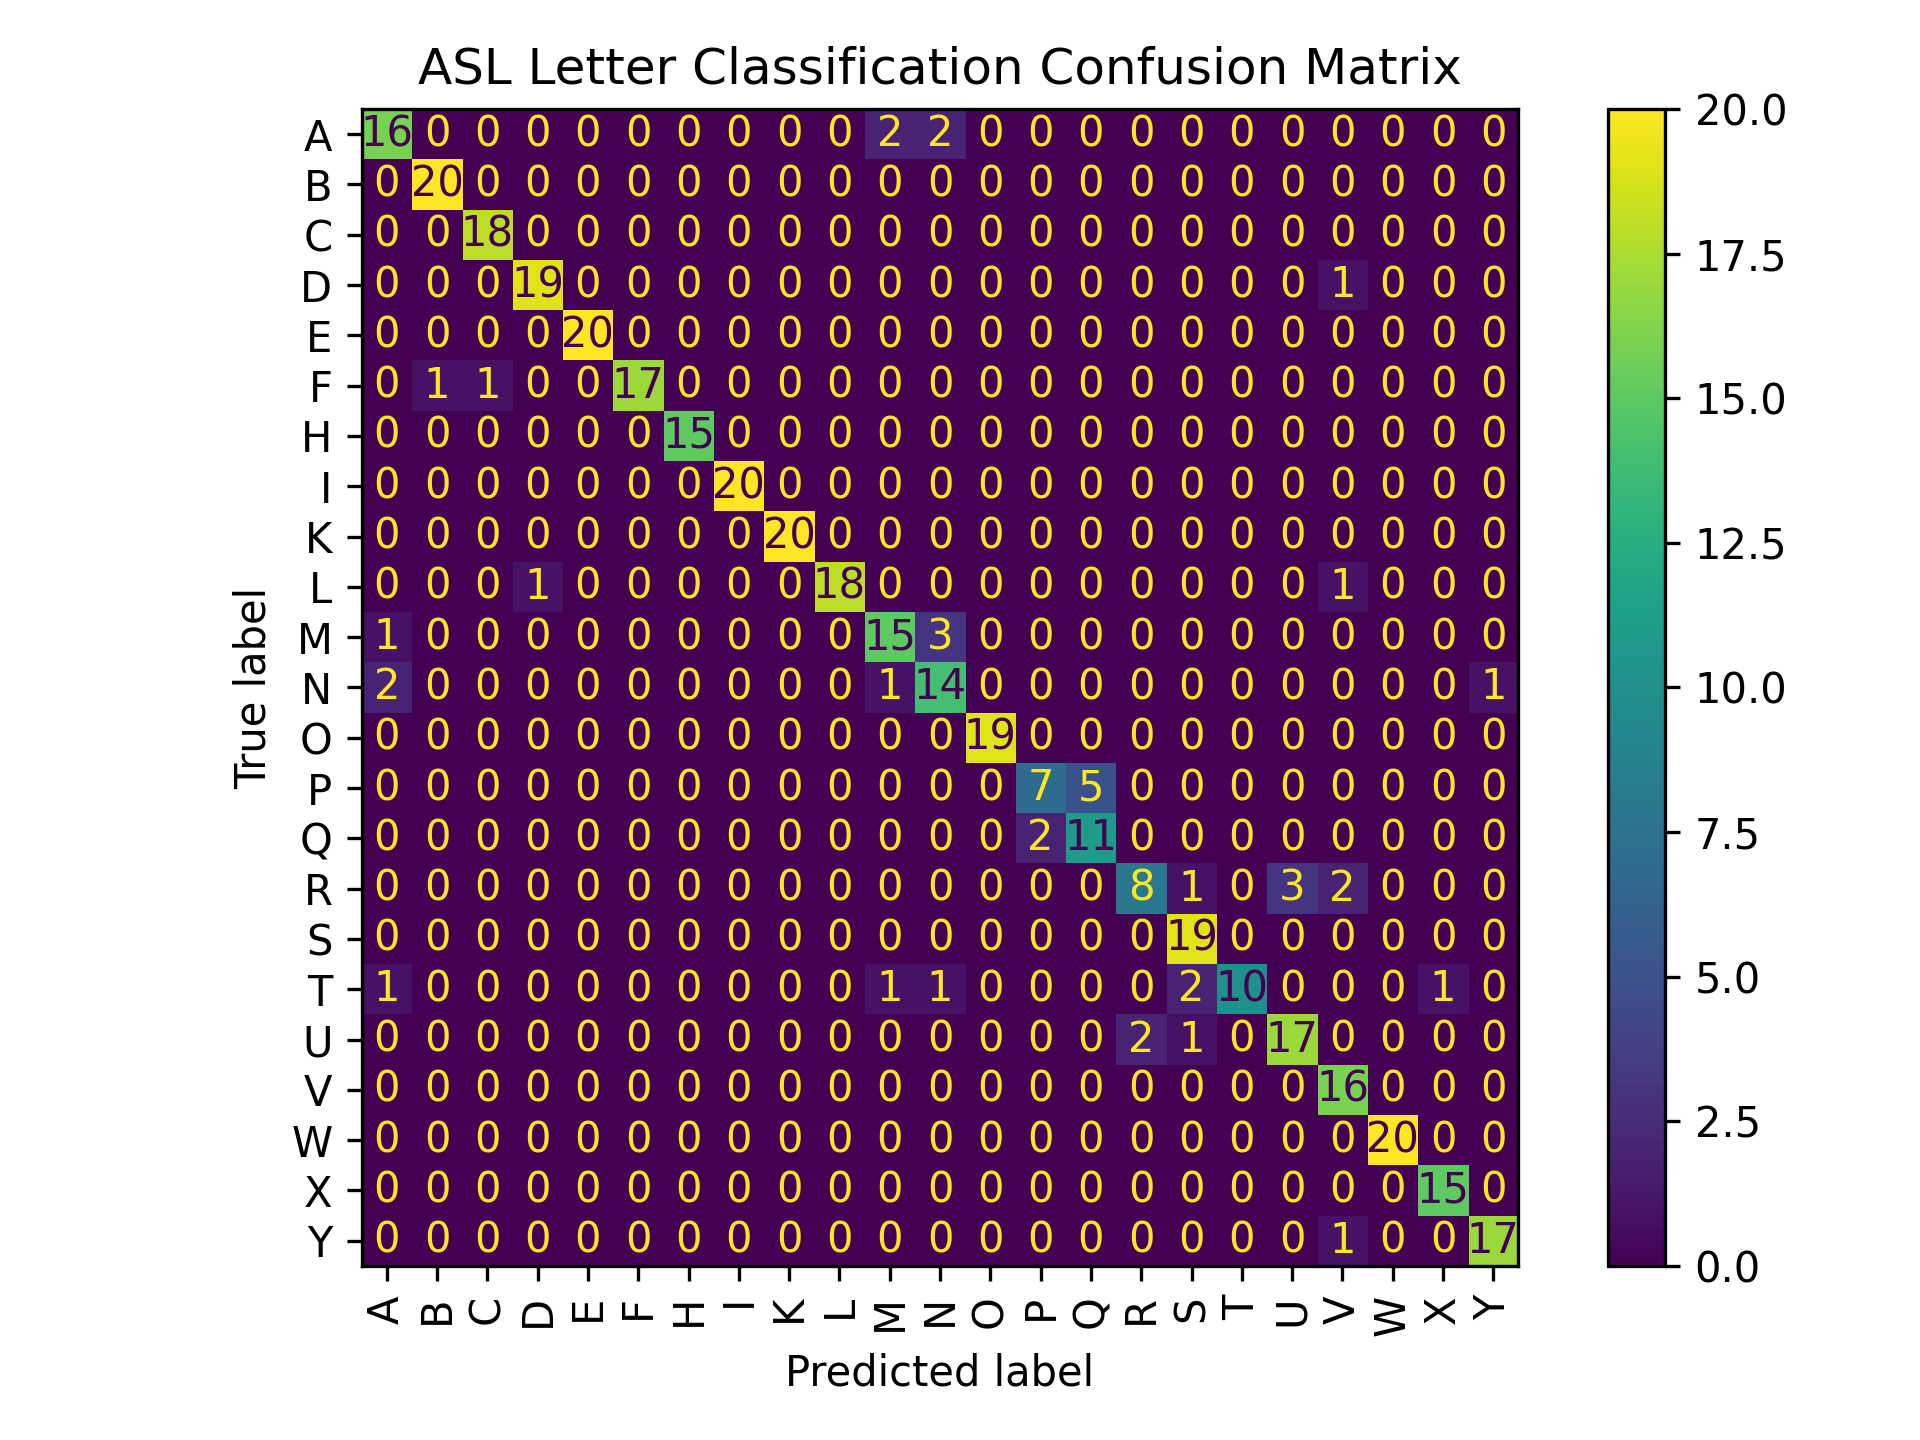
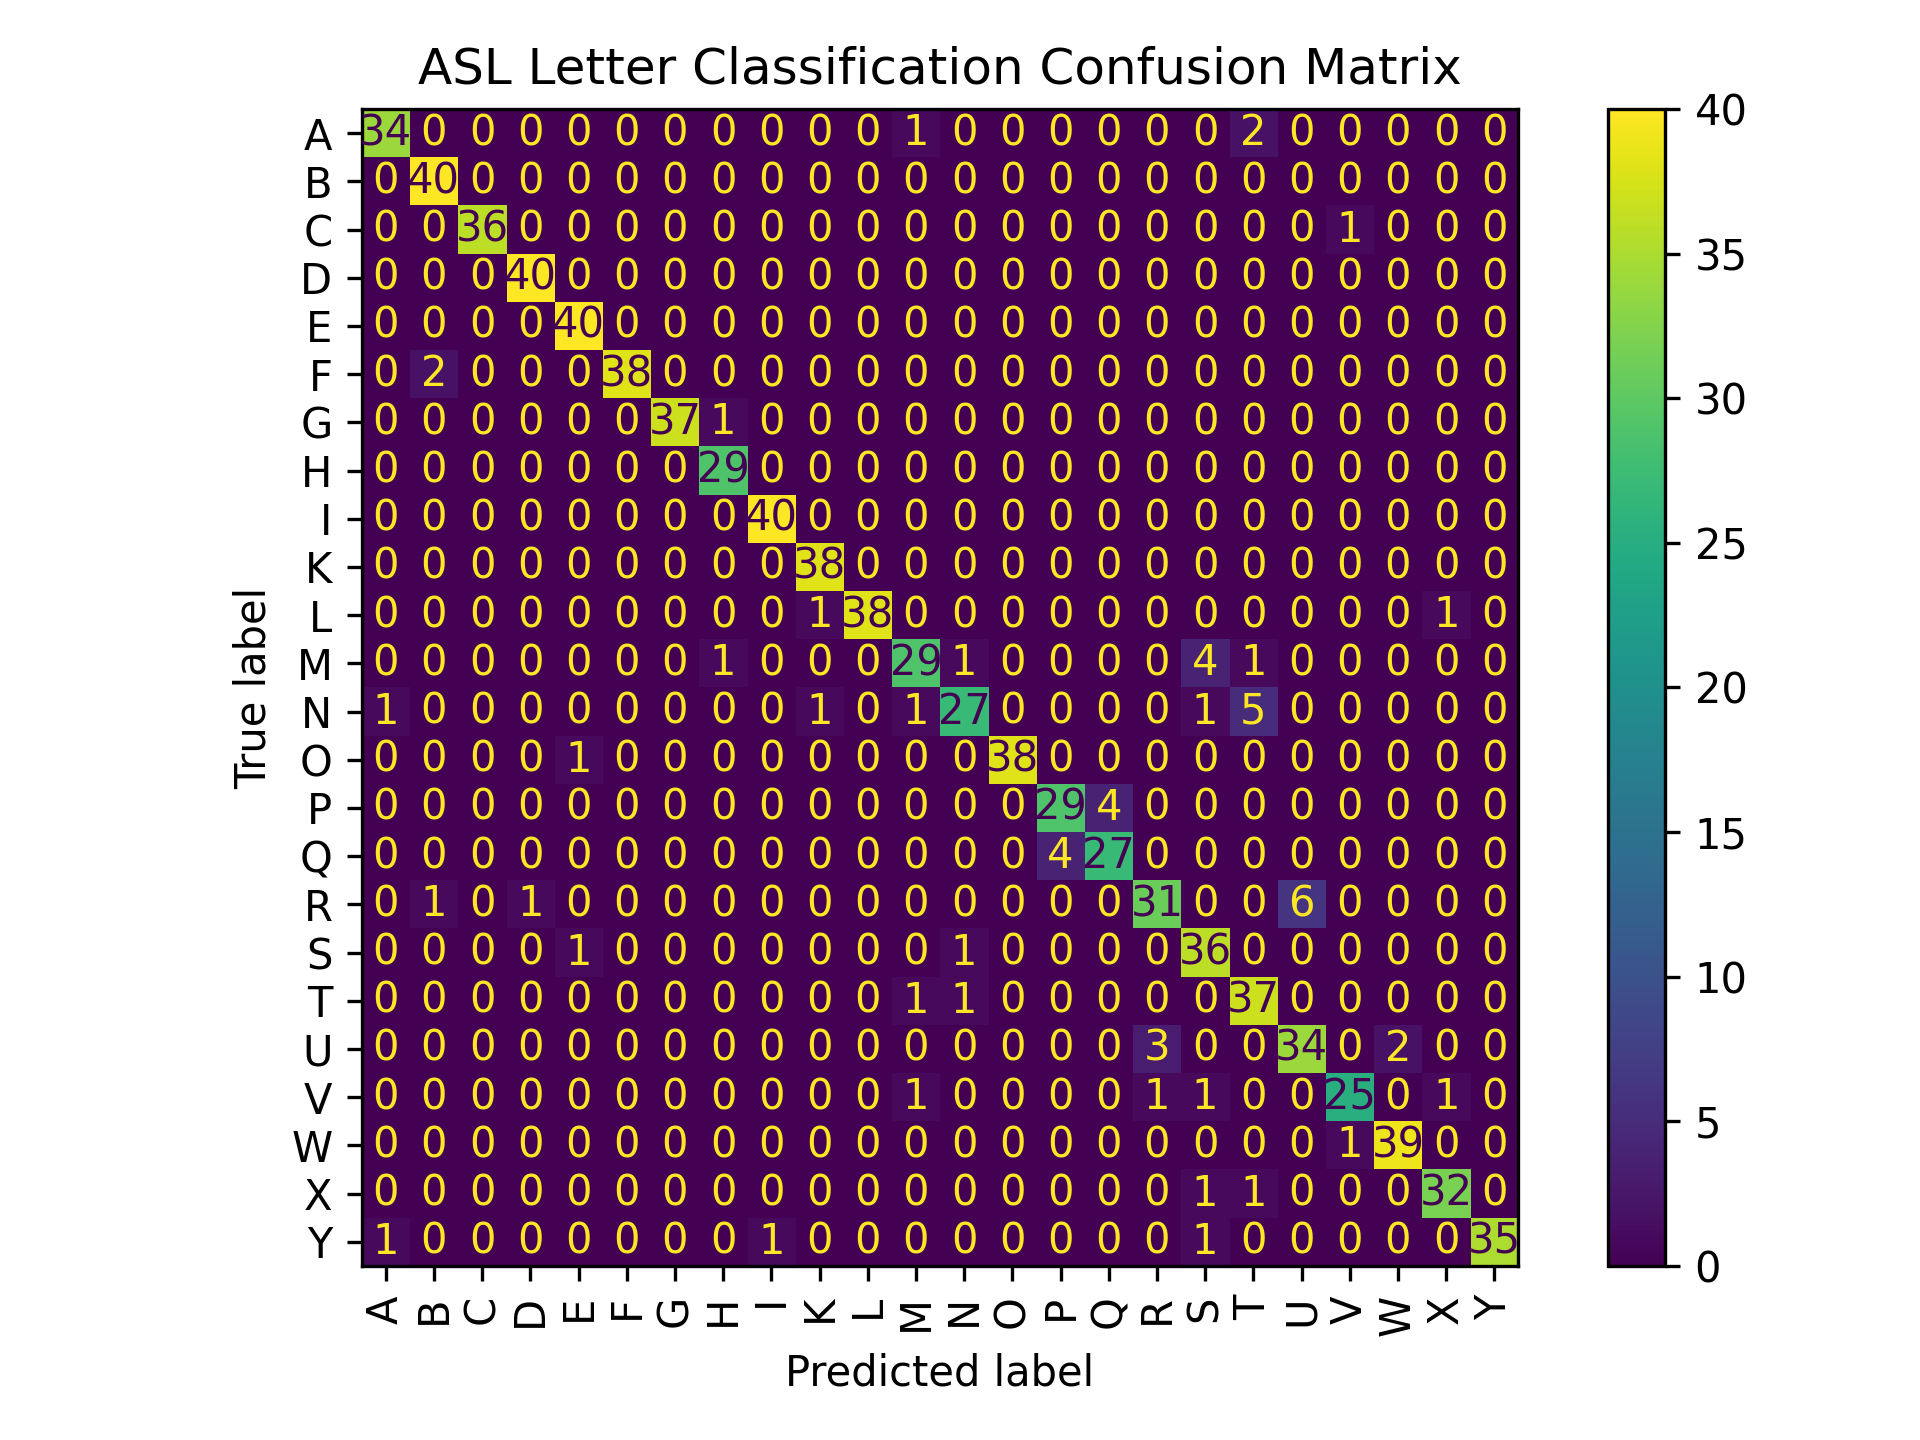
Implements predict_live, addss thumb dist ft and more robust scaling

diff --git a/process_data.py b/process_data.py
@@ -1,8 +1,25 @@
 import os
 import pickle
 import cv2
-import mediapipe as mp
 import hand_utils as h
+import numpy as np
+import random
+
+def augment_image(img):
+    h, w = img.shape[:2] #img.shape returnd (heights, width, channels)
+
+    # Random rotation (±5°)
+    angle = random.uniform(-5, 5)
+    #Generates a 2D affine rotation matrix used by OpenCV to rotate the image. The middle of the image (w / 2, h / 2) is the rotation center. 1, is the scale-factor, none.
+    M_rot = cv2.getRotationMatrix2D((w / 2, h / 2), angle, 1) 
+    img = cv2.warpAffine(img, M_rot, (w, h), borderMode=cv2.BORDER_REFLECT)
+
+    # Random brightness (±20%). Multiplies each pixel by the brightness factor.  
+    #np.clip(..., 0, 255) ensures pixel values stay valid (between 0 and 255), to avoid overflow
+    #.astype(np.uint8)` converts back to standard 8-bit integers (the format OpenCV uses).
+    brightness = random.uniform(0.8, 1.2)
+    img = np.clip(img * brightness, 0, 255).astype(np.uint8)
+    return img
 
 #initalize Mediapipe hands in static image mode (one image at a time) since we will be working with saved photos **
 hands = h.init_hands(static_mode=True)
@@ -23,25 +40,44 @@ for folder in os.listdir(DIR): #os.listdir list every item in data/ dir
         img = cv2.imread(img_path) #OpenCV reads the image into memory as a NumPy array (3D array of pxls), if it cant read a file returns none, uses BGR order
         if img is None:
             continue
-        img_rgb = cv2.cvtColor(img, cv2.COLOR_BGR2RGB) #OpenCV reafs as BGR, MediaPipe expects RGB so need to reorder
-        res= hands.process(img_rgb) #send image through MP hands model, and detects landmarks
+        imgs_to_process = [img, augment_image(img)] #image and augmented image 
+        for current_img in imgs_to_process:
+            img_rgb = cv2.cvtColor(current_img, cv2.COLOR_BGR2RGB) #OpenCV reafs as BGR, MediaPipe expects RGB so need to reorder
+            res= hands.process(img_rgb) #send image through MP hands model, and detects landmarks
         
-        #if hands detected, extract landmark data
-        if res.multi_hand_landmarks:
-            for h_landmark in res.multi_hand_landmarks:
-                x = [lm.x for lm in h_landmark.landmark]
-                y = [lm.y for lm in h_landmark.landmark]
-                z = [lm.z for lm in h_landmark.landmark]
+            #if hands detected, extract landmark data
+            if res.multi_hand_landmarks:
+                for h_landmark in res.multi_hand_landmarks:
+                    x = [lm.x for lm in h_landmark.landmark]
+                    y = [lm.y for lm in h_landmark.landmark]
+                    z = [lm.z for lm in h_landmark.landmark]
 
-                norm_hand= []
-                #normalize to make gesture independent of hand's screen position and camea distance
-                #normalize the hand's position, x,y to top-left and z relative to wrist and storing it back in a flattened array [norm_hand]
-                for lm in h_landmark.landmark:
-                    norm_hand.append(lm.x-min(x)) 
-                    norm_hand.append(lm.y-min(y))
-                    norm_hand.append(lm.z- h_landmark.landmark[0].z)
-                data.append(norm_hand)
-                letters.append(folder)
+                    # Translation normalization (position)
+                    min_x, min_y, min_z = min(x), min(y), h_landmark.landmark[0].z
+                    max_x, max_y = max(x), max(y)
+                    
+                    # Compute scale factor — hand width/height
+                    scale = max(max_x - min_x, max_y - min_y)
+                    if scale == 0:
+                        continue  # skip invalid detections
+                    
+                    #normalize and scale to make gesture independent of hand's screen position and camera distance all hands fit in a 1×1 bounding box.
+                    #normalize the hand's position, x,y to top-left and z relative to wrist and storing it back in a flattened array [norm_hand]          
+                    norm_hand = []
+                    for lm in h_landmark.landmark:
+                        norm_x = (lm.x - min_x) / scale
+                        norm_y = (lm.y - min_y) / scale
+                        norm_z = (lm.z - min_z) / scale  #for depth normalization
+                        norm_hand.extend([norm_x, norm_y, norm_z])
+                    #to help distinguish between similar closed fists like m and s we can add thumb distance as a feature
+                    thumb_tip = h_landmark.landmark[4] #thumb tip landmark
+                    thumb_joint = h_landmark.landmark[2] #thumb joint landmark near base of plam, dist between 2 and 4 tells us how extended or tucked the thumb is
+                    #calc thumbs "openness" Euclidean distance between the thumb tip and the thumb joint in 3D space (x, y, z) and bounds in 1-1 bounding box
+                    thumb_dist = (((thumb_tip.x - thumb_joint.x)**2 + (thumb_tip.y - thumb_joint.y)**2 + (thumb_tip.z - thumb_joint.z)**2)**0.5) / scale
+                    norm_hand.append(thumb_dist) #append as an extra feature 
+                    
+                    data.append(norm_hand)
+                    letters.append(folder)
 # cv2.destroyAllWindows()
 
 

diff --git a/predict_live.py b/predict_live.py
@@ -1,0 +1,122 @@
+import cv2
+import pickle
+import numpy as np
+import hand_utils as h
+
+
+#load data
+with open('model.pickle', 'rb') as f:
+    model = pickle.load(f)['model']
+
+with open('data.pickle', 'rb') as f:
+    data_dict = pickle.load(f)
+letters = sorted(list(set(data_dict['letters']))) #removes duplicates and alphabetically orders it to have a clean lits of letters
+
+
+#landmark normalizatoin: ensures real-time inputs are in the same scale/format as training samples.
+def extract_normalized_landmarks(results):
+    """Extracts normalized (x, y, z) landmarks from Mediapipe results."""
+    if not results.multi_hand_landmarks:
+        return None
+    for h_landmark in results.multi_hand_landmarks:
+        x = [lm.x for lm in h_landmark.landmark]
+        y = [lm.y for lm in h_landmark.landmark]
+        z = [lm.z for lm in h_landmark.landmark]
+
+        min_x, min_y, min_z = min(x), min(y), h_landmark.landmark[0].z
+        max_x, max_y = max(x), max(y)
+        scale = max(max_x - min_x, max_y - min_y)
+        if scale == 0:
+            return None
+
+        norm_hand = [] #flatted list of 63 values x,y,z for each of 21 landmarks
+        #Normalizes each landmark into a [0,1] bounding box, independent of hand position and distance from the camera.
+        for lm in h_landmark.landmark:
+            norm_x = (lm.x - min_x) / scale
+            norm_y = (lm.y - min_y) / scale
+            norm_z = (lm.z - min_z) / scale
+            norm_hand.extend([norm_x, norm_y, norm_z]) #add all three values at once to the array
+        #thumb distance calc
+        thumb_tip = h_landmark.landmark[4]
+        thumb_joint = h_landmark.landmark[2]
+        thumb_dist = (((thumb_tip.x - thumb_joint.x)**2 + (thumb_tip.y - thumb_joint.y)**2 + (thumb_tip.z - thumb_joint.z)**2) ** 0.5) / scale
+        norm_hand.append(thumb_dist)           
+            #Converts to a NumPy array shaped (1, 21*3=63) a single sample ready for prediction by scikit-learn. [[]]
+        return np.array(norm_hand).reshape(1, -1)
+    return None
+
+
+#Confidence Gradient for display
+def get_confidence_color(conf):
+    """
+    Returns a smooth gradient RGB color based on the confidence percentage.
+    Transitions from purple to blue to a rare red as confidence increases.
+    """
+    # Color stops (confidence %, RGB)
+    gradient = [
+        (25, (203, 24, 219)),
+        (50, (219, 24, 213)),
+        (85, (219, 24, 134)),
+        (90, (219, 24, 89)),
+        (97, (219, 24, 60)),
+        (100, (219, 24, 24))
+    ]
+
+    # Clamp between 0–100
+    conf = max(0, min(conf, 100))
+
+    # Find the two stops we are between
+    for i in range(len(gradient) - 1):
+        c1, col1 = gradient[i]
+        c2, col2 = gradient[i + 1]
+        if c1 <= conf <= c2:
+            # Calculates how far between c1 and c2 our confidence is and then perform linear interpolation
+            ratio = (conf - c1) / (c2 - c1)
+            r = int(col1[0] + (col2[0] - col1[0]) * ratio) #start with c1 and mosve slightly towards c2
+            g = int(col1[1] + (col2[1] - col1[1]) * ratio)
+            b = int(col1[2] + (col2[2] - col1[2]) * ratio)
+            return (r, g, b)
+
+    return gradient[-1][1]  # if exactly 100
+
+pred_letter = "..."
+confidence = 0.0
+recent_preds = [] #store lasst few predictions for smoothing and stability
+
+ 
+def process_frame(frame, results):
+    """Handles drawing, landmark extraction, and ASL prediction."""
+    global pred_letter, confidence, recent_preds
+
+    # Draw detected hand
+    h.draw_hand_landmarks(frame, results)
+
+    # Extract landmarks of one frame
+    features = extract_normalized_landmarks(results)
+    if features is not None:
+        probs = model.predict_proba(features)[0] # returns a list of probailities one per class [[]], and extracts the first and only sample
+        top_idx = np.argmax(probs) #identifies largest probability, the most likely class
+        confidence = probs[top_idx] * 100
+        pred = model.classes_[top_idx]
+        pred_letter = pred
+        # Smoothing for stability
+        recent_preds.append(pred_letter)     
+        if len(recent_preds) > 5:
+            recent_preds.pop(0)
+            pred_letter = max(set(recent_preds), key=recent_preds.count) #finds the letter most freq in recents
+
+    #display overlay
+    font = cv2.FONT_HERSHEY_TRIPLEX
+    main_color = (230, 60, 204)
+    conf_color = get_confidence_color(confidence)  # Gradient-based color
+    cv2.putText(frame, f"Prediction: {pred_letter}", (20, 50),
+                font, 1.3, main_color, 2, cv2.LINE_AA) #line_AA just smoothes the edges of the text
+    if confidence > 0:
+        cv2.putText(frame, f"Confidence: {confidence:.1f}%", (20, 90),
+                    font, 0.9, conf_color, 2, cv2.LINE_AA)
+
+#main exectution
+hands = h.init_hands(static_mode=False)
+print("Starting live ASL prediction. Press 'q' to quit.\n")
+h.start_video(hands, process_frame)
+print("Exiting ASL live prediction.")

diff --git a/train_model.py b/train_model.py
@@ -58,7 +58,7 @@ print(f"Standard Deviation: {np.std(cv_scores)*100:.2f}%")
 # Off-diagonal cells → misclassifications (e.g., model confused one letter for another).
 # The color bar shows how many samples fall into each cell.
 cm = confusion_matrix(y_test, predictions, labels=sorted(set(y_test)))
-disp = ConfusionMatrixDisplay(confusion_matrix=cm, display_labels=sorted(set(y_test)))
+disp = ConfusionMatrixDisplay(confusion_matrix=cm, display_labels=sorted(set(y_test))) #visualize
 disp.plot(xticks_rotation='vertical')
 plt.title("ASL Letter Classification Confusion Matrix")
 plt.tight_layout()

diff --git a/check_processed.py b/check_processed.py
@@ -1,5 +1,8 @@
 import pickle
 from collections import Counter
+import mediapipe as mp
+import os
+import cv2
 
 # Load your dataset
 data_dict = pickle.load(open('data.pickle', 'rb'))
@@ -19,6 +22,7 @@ for rank, (letter, count) in enumerate(sorted_counts, start=1):
 total = sum(counts.values())
 min_letter, min_count = sorted_counts[0]
 max_letter, max_count = sorted_counts[-1]
+
 
 print(f"Total samples: {total}")
 print(f"Lowest count: '{min_letter}' ({min_count} samples)")

diff --git a/hand_utils.py b/hand_utils.py
@@ -4,7 +4,7 @@ import cv2
 mp_hands = mp.solutions.hands #gives accesss to MediaPipe's hand-detection model
 mp_drawings =  mp.solutions.drawing_utils #gives helper fctns to draw landmarks on image
 
-def init_hands(static_mode = False, max_hands =1, detection_conf = 0.3):
+def init_hands(static_mode = False, max_hands =1, detection_conf = 0.2):
      """
     Initializes and returns a MediaPipe Hands object.
     

diff --git a/collect_data.py b/collect_data.py
@@ -38,7 +38,7 @@ for i in range(3, 0, -1):
     cv2.putText(frame, f"Starting in {i}...", (200, 250),
                 cv2.FONT_HERSHEY_SIMPLEX, 2, (0, 0, 255), 4)
     cv2.imshow("ASL Hand Detection", frame)
-    cv2.waitKey(1000)
+    cv2.waitKey(1000) #wait one second before each countdown frame
 cv2.destroyAllWindows()
 cap.release()
 
